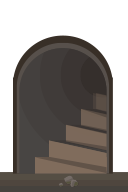
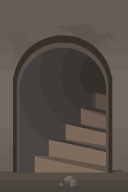
uupdated assets and fixed positioning;

diff --git a/src/tile.js b/src/tile.js
@@ -16,7 +16,6 @@ var Enter  = {
 Tile.prototype = new createjs.Bitmap();
 Tile.prototype.constructor = Tile;
 
-
 var Layer = function( tileString ) {
     this.chunks = [];
     this.tileString = tileString;
@@ -99,8 +98,8 @@ Layer.prototype.collidesAt = function ( x ) {
     return false;
 }
 
-Layer.prototype.removePlayer = function () {
-    this.removeChild( player );
+Layer.prototype.removePlayer = function ( ) {
+    this.removeChild( this.player );
     this.player = null;
 }
 
@@ -142,9 +141,18 @@ LayerChunk.prototype.getTile = function ( x ) {
     return this.tileString.charAt( Math.floor( x / TILE_WIDTH ) );
 }
 
+var PlayerStates = {
+    IDLE : 0,
+    LEFT : 1,
+    RIGHT: 2,
+    JUMP: 3,
+    FALL: 4
+}
+
 var Level = function()
 {
     this.currentLayer = 0;
+    this.playerState = PlayerStates.IDLE;
     this.initialize();
 }
 
@@ -161,12 +169,33 @@ Level.prototype.base_initialize = Level.prototype.initialize;
 Level.prototype.initialize = function()
 {
     this.base_initialize();
-    this.player = new createjs.Bitmap( 'res/wendy.png' );
-    this.player.layer = 2;
+
+    var data = {
+        images: [
+            assetLoader.getResult( "player_stand0" ),
+            assetLoader.getResult( "player_stand1" ),
+
+            assetLoader.getResult( "player_walk0" ),
+            assetLoader.getResult( "player_walk1" ),
+            assetLoader.getResult( "player_walk2" ),
+
+            assetLoader.getResult( "player_jump" ),
+        ],
+        frames: { width: TILE_WIDTH, height: TILE_HEIGHT, count: 6, regX: TILE_WIDTH / 2, regY: 0 },
+
+        animations: {
+            run: [2, 4, "run", 3],
+            stand: [0, 1, "stand", 10],
+        }
+    }
+    var spriteSheet = new createjs.SpriteSheet( data );
+    this.player = new createjs.BitmapAnimation( spriteSheet );
+    this.player.gotoAndPlay( "stand" );
+    this.playerLayer = 2;
     while ( this.currentLayer < 6 ) {
         this.moveUp( true );
     }
-    this.layers[this.player.layer].addPlayer( this.player, 2.5 * TILE_WIDTH );
+    this.layers[this.playerLayer].addPlayer( this.player, 2.5 * TILE_WIDTH );
 };
 
 Level.prototype.moveUp = function ( force ) {
@@ -175,13 +204,18 @@ Level.prototype.moveUp = function ( force ) {
         this.currentLayer++;
     }
     else {
-        var playerLayer = this.layers[this.player.layer];
+        var playerLayer = this.layers[this.playerLayer];
         var playerTile = playerLayer.getTileAt( this.player.x );
-        var upperLayer = this.layers[this.player.layer + 1];
-        var upperTile = upperLayer.getTileAt( this.player.x + playerLayer.x - upperLayer.x);
+        var upperLayer = this.layers[this.playerLayer + 1];
+        var upperPlayerX = this.player.x + playerLayer.x - upperLayer.x;
+        var upperTile = upperLayer.getTileAt( upperPlayerX );
         if ( playerTile == "H" && upperTile == " " ) {
             this.currentLayer++;
+            playerLayer.removePlayer( this.player );
+            upperLayer.addPlayer( this.player, this.player.x + playerLayer.x );
+            this.playerLayer = this.playerLayer + 1;
         }
+        
     }
 
 
@@ -204,10 +238,10 @@ Level.prototype.moveUp = function ( force ) {
 }
 
 Level.prototype.moveDown = function () {
-    if ( this.currentLayer > 5 ) {
-        this.currentLayer--;
-        createjs.Tween.get( this, { override: true } ).to( { y: this.currentLayer * TILE_HEIGHT }, 500, createjs.Ease.quadOut );
-    }
+    //if ( this.currentLayer > 5 ) {
+    //    this.currentLayer--;
+    //    createjs.Tween.get( this, { override: true } ).to( { y: this.currentLayer * TILE_HEIGHT }, 500, createjs.Ease.quadOut );
+    //}
 }
 
 Level.prototype.requestPattern = function () {
@@ -240,10 +274,10 @@ Level.prototype.moveLayerEnded = function(layerNo, deltaX, deltaTime)
 
 Level.prototype.update = function()
 {
-    var playerX = this.layers[this.player.layer].getPlayerX( this.player );
+    var playerX = this.layers[this.playerLayer].getPlayerX( this.player );
     var newPos = this.player.x;
     newPos += Math.max( -PLAYER_SPEED_X ,Math.min( PLAYER_SPEED_X, 2.5 * TILE_WIDTH - playerX ) );
-    if ( !this.layers[this.player.layer].collidesAt( newPos ) ) {
+    if ( !this.layers[this.playerLayer].collidesAt( newPos ) ) {
         this.player.x = newPos;
     }
 

diff --git a/src/main.js b/src/main.js
@@ -19,13 +19,22 @@ function preloadAssetsAndStart() {
         { id: "tile_floor2", src: "res/floortile3.png" },
         { id: "tile_floor3", src: "res/floortile4.png" },
 
-        { id: "tile_hole", src: "res/holetile.png" },
+        { id: "tile_hole", src: "res/hole2.png" },
         { id: "tile_ladder", src: "res/ladder.png" },
         { id: "tile_jump", src: "res/jump.png" },
         { id: "tile_door_up_a", src: "res/door1up.png" },
         { id: "tile_door_down_a", src: "res/door1down.png" },
         { id: "tile_door_up_b", src: "res/door2up.png" },
         { id: "tile_door_down_b", src: "res/door2down.png" },
+
+        { id: "player_stand0", src: "res/character_basic.png" },
+        { id: "player_stand1", src: "res/character_idle1.png" },
+
+        { id: "player_walk0", src: "res/character_basic.png" },
+        { id: "player_walk1", src: "res/character_walk1.png" },
+        { id: "player_walk2", src: "res/character_walk2.png" },
+
+        { id: "player_jump", src: "res/character_jump.png" },
     ] );
 }
 

diff --git a/src/patterns.js b/src/patterns.js
@@ -1,6 +1,6 @@
 var PATTERN_LIST = [
 	[// 12
-		"_____ _____V___",
+		"_____ _____H___",
 		"_______ H______",
 		"______H_ ______",
 		"_______ H______",

diff --git a/src/Player.js b/src/Player.js
@@ -1,6 +1,6 @@
 
 
-var PLAYER_SPEED_X = 3;
+var PLAYER_SPEED_X = 8;
 var WORLD_CENTER = { x: 320 , y: 420 };
 var Player = function(x, y)
 {
